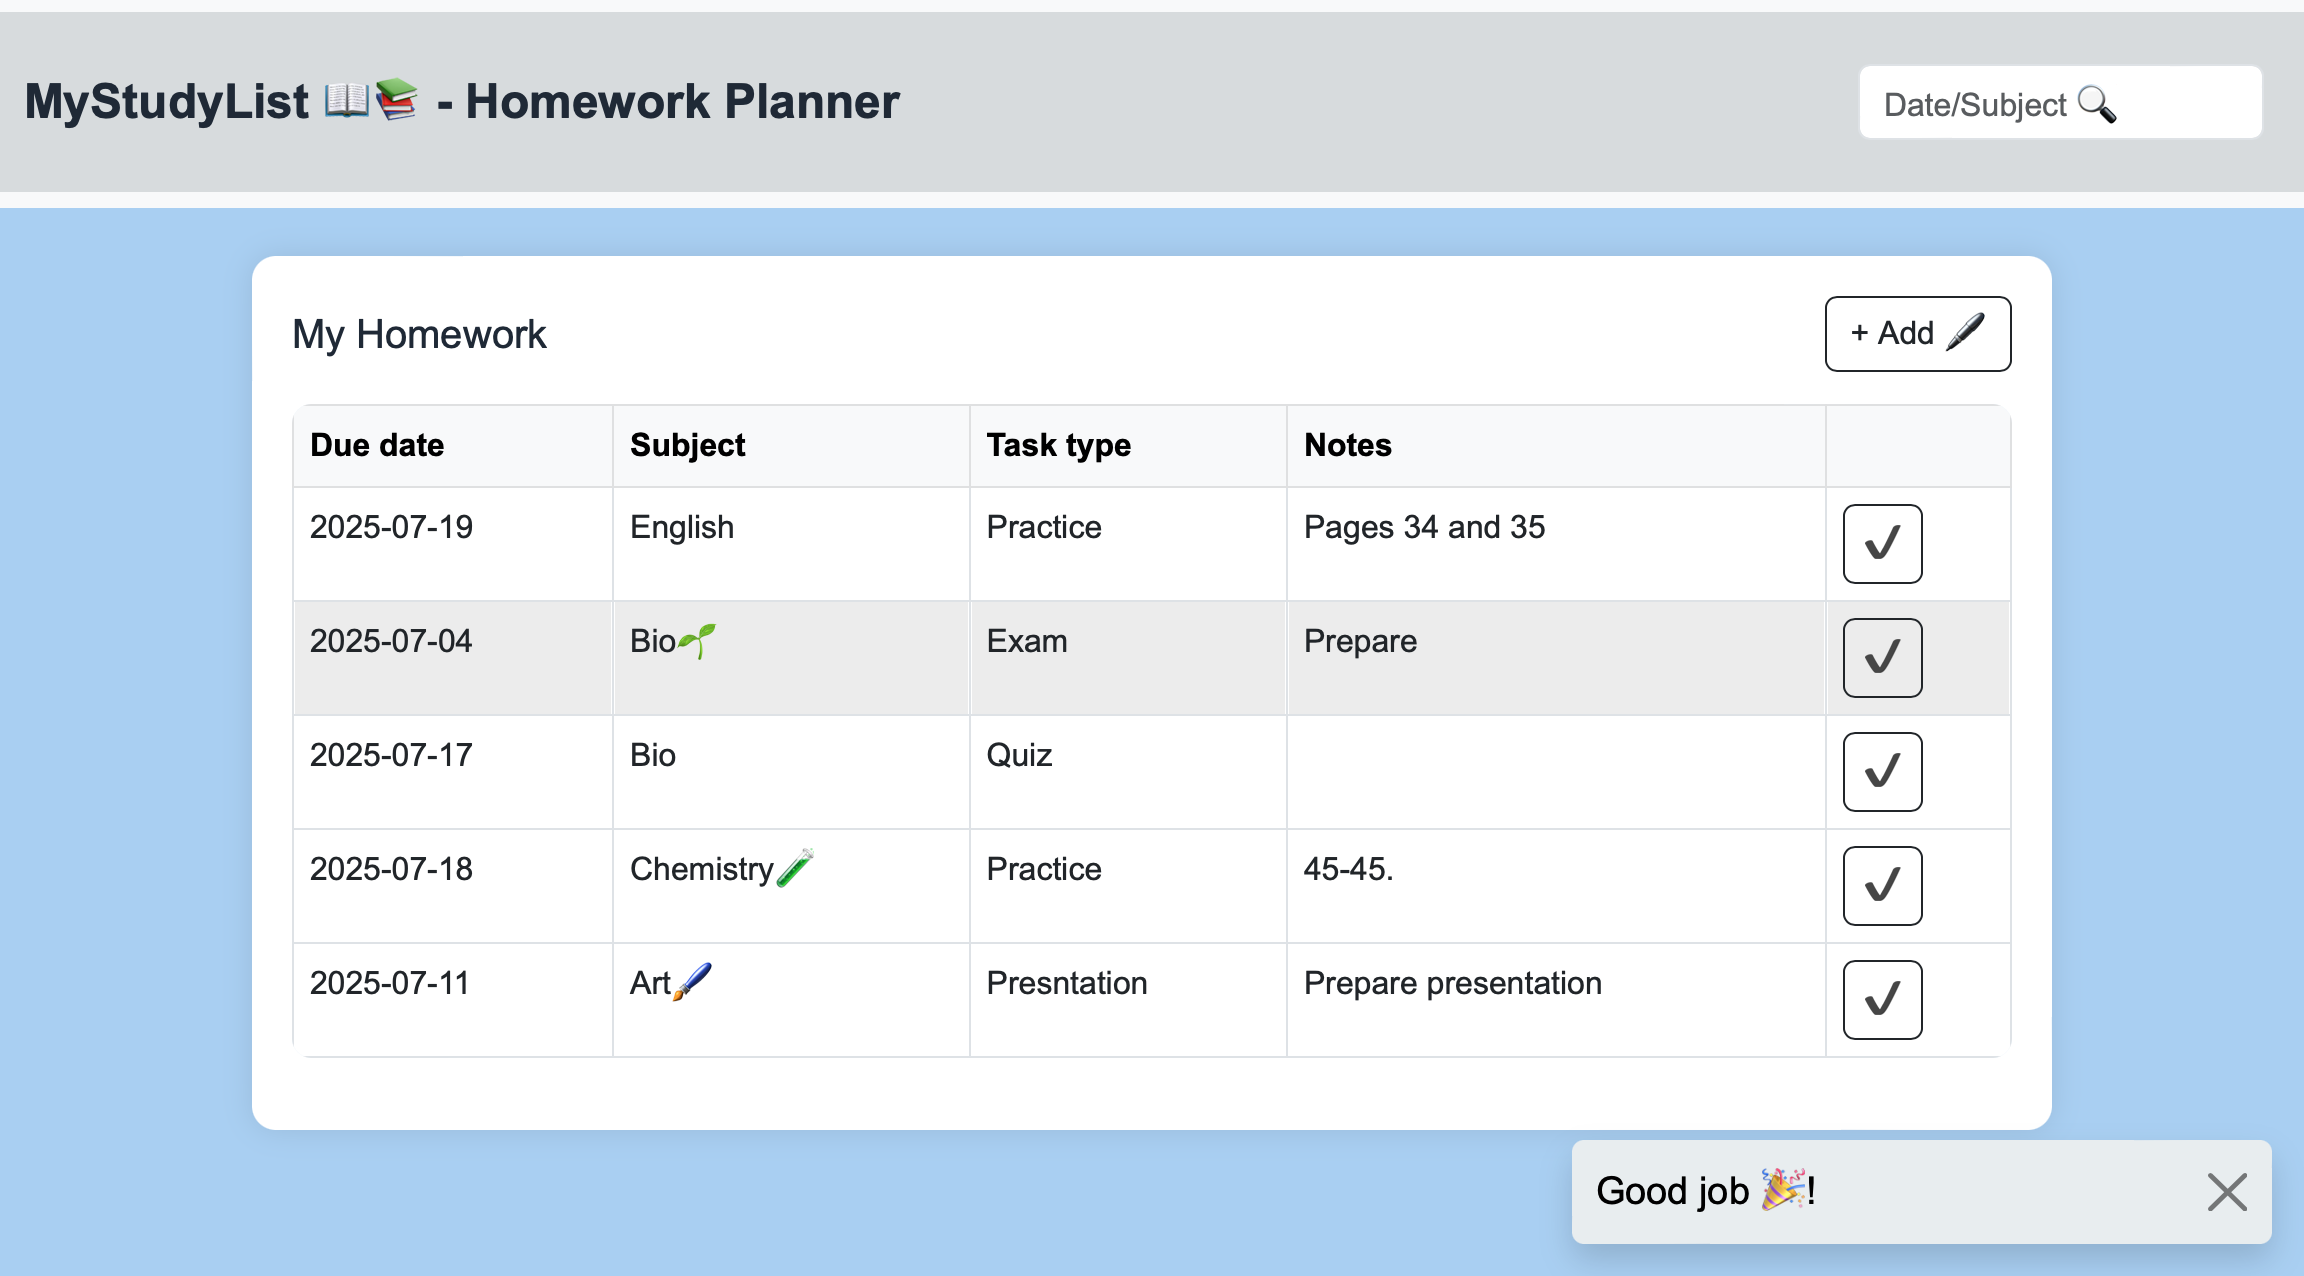
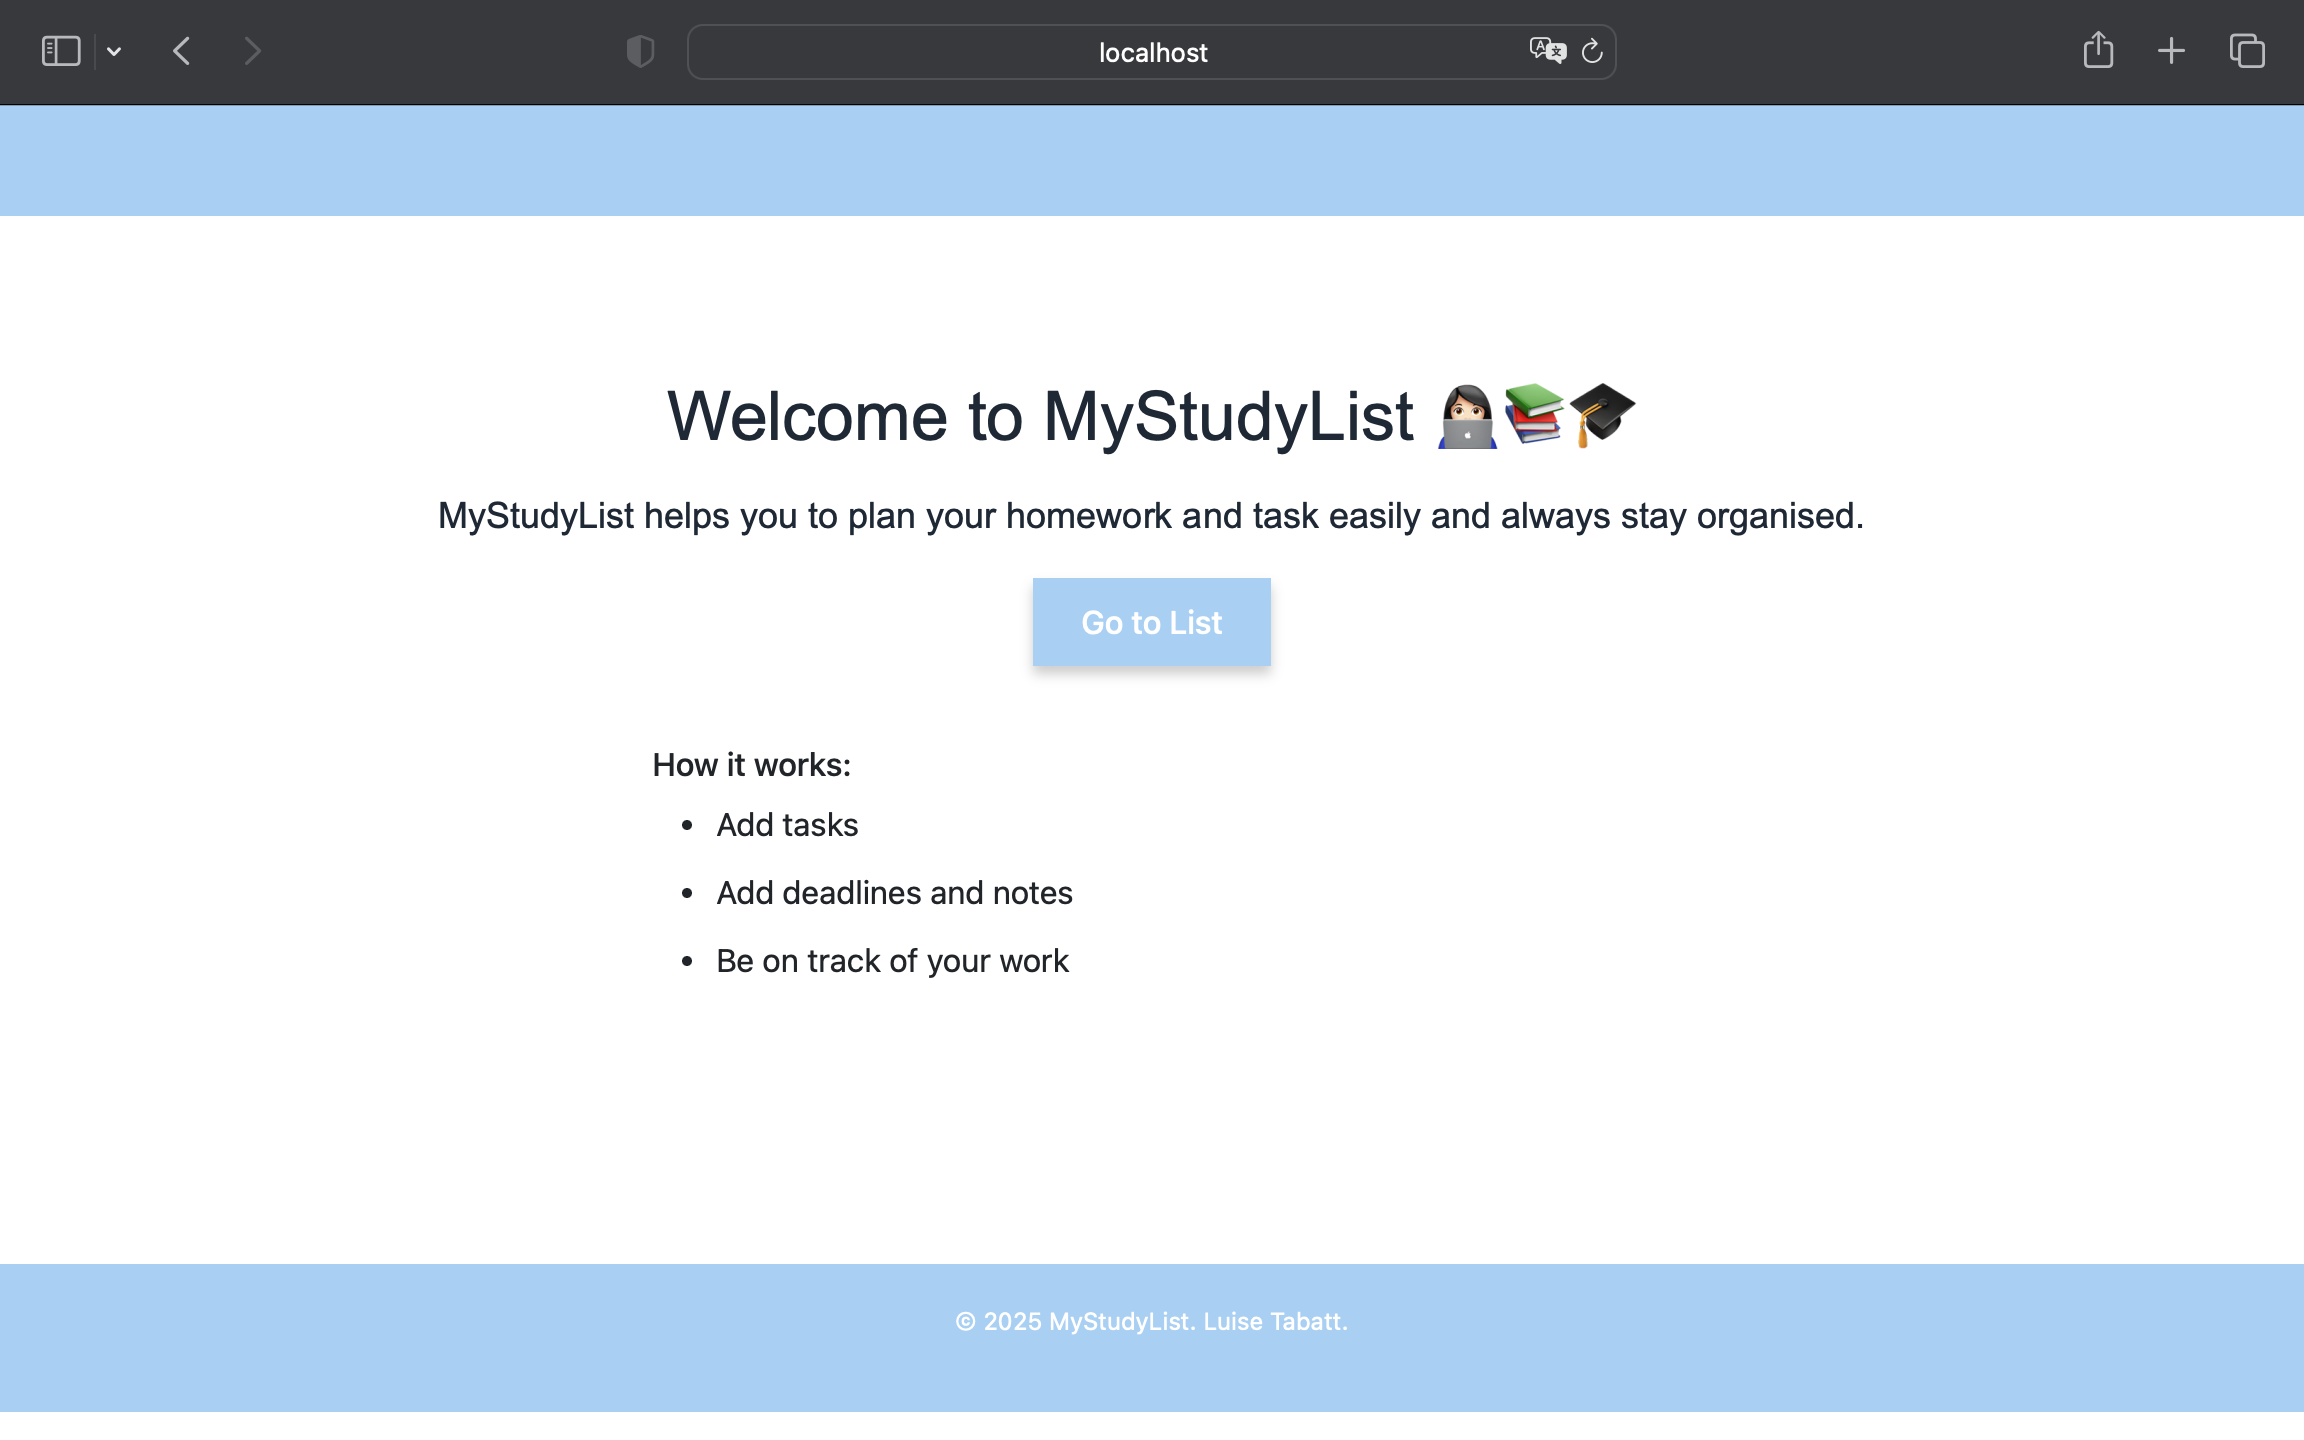
home page

diff --git a/frontend/src/app/home-page/home-page.css b/frontend/src/app/home-page/home-page.css
@@ -1,0 +1,85 @@
+.container-fluid {
+    text-align: center;
+    margin-top: 80px;
+   
+  }
+
+
+  button {
+    padding: 10px 20px;
+    font-size: 16px;
+  }
+
+  h1{
+
+    font-size: 34px;         
+    color: #1f2937;
+    font-family: 'Arial', sans-serif;
+    margin-bottom: 20px;
+  }
+  h2{
+    font-size: 18px;         
+    color: #1f2937;
+    font-family: 'Arial', sans-serif;
+    margin-bottom: 20px;
+  }
+
+  
+body{
+  height: 100%;
+  margin: 0;
+  padding: 0;
+ background-color: #a8cef4;
+  font-family: Arial, sans-serif;
+}
+
+.list-btn{
+
+  background-color:  #a8cef4;     
+  color: white;
+  border: none;
+  padding: 10px 24px;
+ 
+  box-shadow: 0 4px 6px rgba(0,0,0,0.2);
+  font-weight: 500;
+  font-size: 16px;
+  margin-bottom: 40px;
+ 
+}
+
+h3{
+
+  font-size: 16px;
+}
+.features {
+  text-align: left;
+  max-width: 500px;
+  margin: 0 auto;
+}
+
+
+.features li {
+  margin-bottom: 10px;
+  font-size: 16px;
+}
+
+
+.navbar{
+  padding: 20px 10px;
+  font-size: 20px;         
+background-color: #a8cef4;
+  color: #1f2937 !important;
+  font-family: 'Arial', sans-serif;
+}
+
+.footer {
+  background-color:#a8cef4;
+  color: #ffffff;
+  text-align: center;
+  padding: 20px 10px;
+  margin-top: 140px;
+  font-size: 12px;
+}
+
+
+

diff --git a/frontend/src/app/hw-list/hw-list.html b/frontend/src/app/hw-list/hw-list.html
@@ -6,10 +6,17 @@
   <link rel="stylesheet" href="https://cdn.jsdelivr.net/npm/bootstrap@5.3.0/dist/css/bootstrap.min.css">
 </head>
 <body>
+
+
   <!--frontend Liste Seite--> 
   <nav class="navbar bg-body-tertiary">
     <div class="container-fluid">
-      <a class="navbar-brand">MyStudyList 📖📚 - Homework Planner</a>
+      <button class="home-btn" (click)="goHome()"> Home 🏠
+      </button>
+
+     
+
+      <a class="navbar-brand">  Homework Planner 📖📚</a>
       <form class="d-flex" role="search" (submit)="preventSubmit($event)">
         <!-- Search bar -->
         <input
@@ -17,12 +24,15 @@
           placeholder="Date/Subject 🔍 " name="inputsearch" id="inputsearch" #filter
         />
       </form>
+      
+
+
     </div>
   </nav>
 
   <div class="container mt-4">
     <div class="d-flex justify-content-between align-items-center mb-3">
-      <h2 class="mb-0">My Homework</h2>
+      <h2 class="mb-0">To-do</h2>
       <a routerLink="/hws/create" class="btn btn-outline-dark">+ Add 🖊</a> <!-- Fixed routerLink -->
     </div>
 

diff --git a/frontend/src/main.ts b/frontend/src/main.ts
@@ -7,15 +7,16 @@ import { HttpClientModule }       from '@angular/common/http';
 import { App}           from './app/app';
 import { HwList }      from './app/hw-list/hw-list';
 import { HwCreate }    from './app/hw-create/hw-create';
+import { HomePage } from './app/home-page/home-page';
 
 bootstrapApplication(App, {
   providers: [
     importProvidersFrom(HttpClientModule),
     provideRouter([
-      { path: 'hws',        component: HwList },
-      { path: 'hws/create',  component: HwCreate },
-      { path: '', redirectTo: 'hws', pathMatch: 'full' },
-      { path: '**', redirectTo: 'hws' }
+      { path: '', component: HomePage },          // HomePage shows on /
+      { path: 'hws', component: HwList },
+      { path: 'hws/create', component: HwCreate },
+      { path: '**', redirectTo: '' }               // Wildcards redirect to home page
     ])
   ]
 });

diff --git a/frontend/src/app/hw-list/hw-list.css b/frontend/src/app/hw-list/hw-list.css
@@ -6,9 +6,22 @@ html, body{
    background-color: #a8cef4;
     font-family: Arial, sans-serif;
   }
+ 
+  .home-btn{
+
+    background-color:  #a8cef4;     
+    color: white;
+    border: none;
+    padding: 10px 24px;
+   
+    box-shadow: 0 4px 6px rgba(0,0,0,0.2);
+    font-weight: 500;
+    font-size: 16px;
+   
+  }
   
   .navbar-brand {
-    font-size: 24px;         
+    font-size: 27px;         
     font-weight: bold;       
     color: #1f2937 !important;
     font-family: 'Arial', sans-serif;
@@ -58,7 +71,15 @@ html, body{
   
   /* Buttons */
   .btn {
-    transition: all 0.2s ease-in-out;
+   
+  
+   
+    border: none;
+    padding: 10px 24px;
+   
+    box-shadow: 0 4px 6px rgba(0,0,0,0.2);
+    font-weight: 500;
+    font-size: 16px;
   }
   
   .btn-outline-dark:hover {

diff --git a/frontend/src/app/home-page/home-page.html b/frontend/src/app/home-page/home-page.html
@@ -1,0 +1,35 @@
+
+
+    <nav class="navbar ">
+        <span class="navbar-text">
+          
+        </span>
+      </nav>
+
+      <div class="container-fluid">
+    <h1>Welcome to MyStudyList 👩🏻💻📚🎓 </h1>
+
+    <h2> MyStudyList helps you to plan your homework and task easily and
+         always stay organised.</h2>
+
+      
+    <button class ="list-btn" (click)="goToTable()">Go to List</button>
+
+    <div class="features">
+        <h3>How it works:</h3>
+        <ul>
+          <li> Add tasks</li>
+          <li> Add deadlines and notes</li>
+          <li> Be on track of your work</li>
+        </ul>
+      </div>
+
+  </div>
+
+
+  <footer class="footer">
+    <p>&copy; 2025 MyStudyList. Luise Tabatt.</p>
+   
+   
+  </footer>
+  

diff --git a/frontend/src/app/home-page/home-page.ts b/frontend/src/app/home-page/home-page.ts
@@ -1,0 +1,19 @@
+import { Component } from '@angular/core';
+import { Router } from '@angular/router';
+import { CommonModule } from '@angular/common';
+import { RouterModule } from '@angular/router';
+
+@Component({
+  selector: 'home-page',
+  standalone: true,
+  imports: [CommonModule, RouterModule],
+  templateUrl: './home-page.html',
+  styleUrls: ['./home-page.css']
+})
+export class HomePage {
+  constructor(private router: Router) {}
+
+  goToTable() {
+    this.router.navigate(['hws']);
+  }
+}

diff --git a/frontend/src/app/app.routes.ts b/frontend/src/app/app.routes.ts
@@ -3,12 +3,16 @@ import { HwList } from './hw-list/hw-list';
 import { HwCreate } from './hw-create/hw-create';
 
 
+
+import { HomePage } from './home-page/home-page';
+
+
 import { bootstrapApplication } from '@angular/platform-browser';
 import { App } from './app';
 
 export const routes: Routes = [
 
-{path: '', redirectTo:'hws', pathMatch:'full'},
+{path: '', component: HomePage },   
 {path: 'hws', component: HwList},
 {path:'hws/create', component:HwCreate}
 

diff --git a/frontend/src/app/hw-list/hw-list.ts b/frontend/src/app/hw-list/hw-list.ts
@@ -10,7 +10,7 @@ declare const bootstrap: any;
   standalone: true,
   imports: [CommonModule, RouterModule],
   templateUrl: './hw-list.html',
-  styleUrl: './hw-list.css'
+  styleUrls: ['./hw-list.css']
 })
 export class HwList implements OnInit {
   hws: Hw[] = [];
@@ -69,5 +69,9 @@ export class HwList implements OnInit {
 
   preventSubmit(event: Event) {
     event.preventDefault();
+  }
+
+  goHome() {
+    this.router.navigate(['/']);
   }
 }

diff --git a/frontend/src/app/app.ts b/frontend/src/app/app.ts
@@ -1,11 +1,13 @@
+import { CommonModule } from '@angular/common';
 import { Component } from '@angular/core';
-import { RouterOutlet } from '@angular/router';
+import { RouterModule, RouterOutlet } from '@angular/router';
+
 
 @Component({
   selector: 'app-root',
   imports: [RouterOutlet],
   templateUrl: './app.html',
-  styleUrl: './app.css'
+  styleUrls: ['./app.css']
 })
 export class App {
   protected title = 'frontend';

diff --git a/frontend/src/app/hw-create/hw-create.ts b/frontend/src/app/hw-create/hw-create.ts
@@ -9,7 +9,7 @@ import { CommonModule } from '@angular/common';
   selector: 'app-hw-create',
   imports: [FormsModule, CommonModule, ReactiveFormsModule],
   templateUrl: './hw-create.html',
-  styleUrl: './hw-create.css',
+  styleUrls: ['./hw-create.css'],
   providers:[HwService]
 })
 export class HwCreate {

diff --git a/frontend/src/app/app.html b/frontend/src/app/app.html
@@ -3,4 +3,5 @@
 
 
 
-<router-outlet/>
+
+<router-outlet></router-outlet>

diff --git a/frontend/README.md b/frontend/README.md
@@ -27,21 +27,23 @@
 ### Scheenshots
 
 
+![home](/screenshots/1.png)
 ![front](/screenshots/2.png)
 
 ## delete function
-![delete](/screenshots/6.png)
-![delte action](/screenshots/8.png)
-![deleted](/screenshots/1.png)
+![delete](/screenshots/3..png)
+![delte action](/screenshots/4..png)
+![deleted](/screenshots/5..png)
 
 ## sort function
-![sort](/screenshots/5.png)
-![sort](/screenshots/7.png)
+![sort](/screenshots/8.png)
+![sort](/screenshots/9.png)
+![sort](/screenshots/10.png)
 
 ## add function
 
-![add](/screenshots/3.png)
-![add](/screenshots/4.png)
+![add](/screenshots/6.png)
+![add](/screenshots/7.png)
 
 
 ## ⚙ Installation & Nutzung
